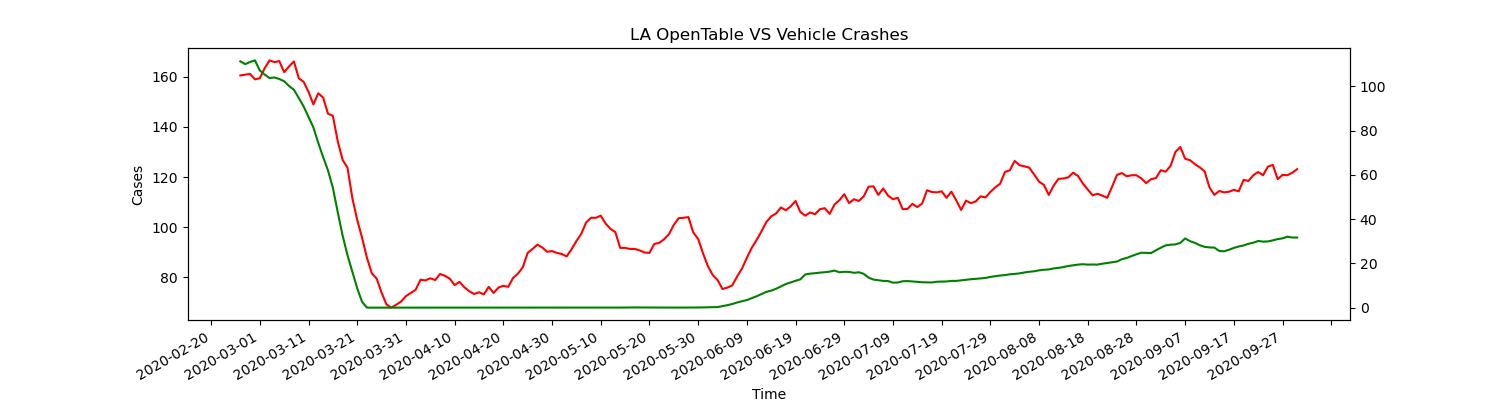
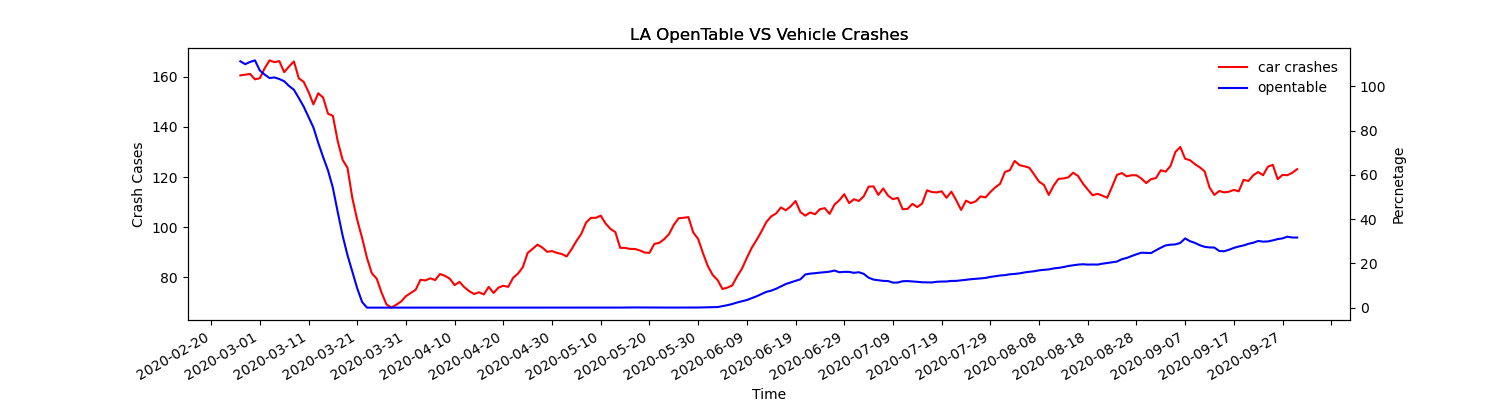
fig update

diff --git a/preprocess.py b/preprocess.py
@@ -14,7 +14,9 @@ sourcepath = "source"
 def main():
     #date_day = pd.date_range(start='1/1/2020', end='9/30/2020')
 
-    
+    car()
+   
+
     carFile = '_Car_TS.csv'
     try:
         NYC_Car_TS = pd.read_csv('NYC'+carFile,names=['date','cases'])
@@ -34,7 +36,6 @@ def main():
         print('FileNotExistError')
     
     # print(FL_Car_TS)
-
     caseFile = '_Case_TS.csv'
     try:
         NYC_Case_TS = pd.read_csv('NYC'+caseFile,names=['date','cases'])
@@ -53,7 +54,7 @@ def main():
     except :
         getCaseTSFile('FL','FL'+caseFile,'United_States_COVID-19_Cases_and_Deaths_by_State_over_Time.csv')
         FL_Case_TS = pd.read_csv('FL'+caseFile,names=['date','cases'])
-
+    
     otFile = "_Opentable_TS.csv"
     
     try:
@@ -79,30 +80,37 @@ def main():
     # plot_df(NYC_Car_TS, x=NYC_Car_TS['date'], y=NYC_Car_TS['cases'].rolling(7).mean(), title='NYC_Car')
     # plot_df(LA_Car_TS, x=LA_Car_TS['date'], y=LA_Car_TS['cases'].rolling(7).mean(), title='LA_Car')
     # plot_df(Opentable_NYC_TS, x=Opentable_NYC_TS['date'], y=Opentable_NYC_TS['percnetage'].rolling(7).mean(), title='NYC_'+'Opentable_TS')
-    # plot_df(Opentable_LA_TS, x=Opentable_LA_TS['date'], y=Opentable_LA_TS['percnetage'].rolling(7).mean(), title='LA_'+'_OpentableTS')
+    # plot_df(Opentable_LA_TS, x=Opentable_LA_TS['date'], y=Opentable_LA_TS['percnetage'].rolling(7).mean(), title='LA_'+'_OpentableTS')    
     
-    plot_df_2var(NYC_Car_TS,NYC_Opentable_TS, x1=NYC_Car_TS['date'], y1=NYC_Car_TS['cases'].rolling(7).mean(),x2=NYC_Opentable_TS['date'], y2=NYC_Opentable_TS['percnetage'].rolling(7).mean(), title='NYC OpenTable VS Vehicle Crashes')
-    plot_df_2var(NYC_Car_TS,NYC_Opentable_TS, x1=NYC_Case_TS['date'], y1=NYC_Case_TS['cases'].rolling(7).mean(),x2=NYC_Opentable_TS['date'], y2=NYC_Opentable_TS['percnetage'].rolling(7).mean(), title='NYC OpenTable VS Cases')
+    plot_df_2var(x1=NYC_Car_TS['date'], y1=NYC_Car_TS['cases'].rolling(7).mean(),x2=NYC_Opentable_TS['date'], y2=NYC_Opentable_TS['percnetage'].rolling(7).mean(), title='NYC OpenTable VS Vehicle Crashes',y1label='Crash Cases',y2label='Percnetage',line1 = 'car crashes',line2 = 'opentable')
+    plot_df_2var(x1=NYC_Case_TS['date'], y1=NYC_Case_TS['cases'].rolling(7).mean(),x2=NYC_Opentable_TS['date'], y2=NYC_Opentable_TS['percnetage'].rolling(7).mean(), title='NYC OpenTable VS COVID Cases',y1label='Covid Cases',y2label='Percnetage',line1 = 'covid case',line2 = 'opentable')
+    plot_df_2var(x1=NYC_Case_TS['date'], y1=NYC_Case_TS['cases'].rolling(7).mean(),x2=NYC_Car_TS['date'], y2=NYC_Car_TS['cases'].rolling(7).mean(), title='NYC Car Crashes VS COIVD Cases',y1label='Covid Cases',y2label='Crash Cases',line1 = 'covid case',line2 = 'car crashes')
     
-    plot_df_2var(LA_Car_TS,LA_Opentable_TS, x1=LA_Car_TS['date'], y1=LA_Car_TS['cases'].rolling(7).mean(),x2=LA_Opentable_TS['date'], y2=LA_Opentable_TS['percnetage'].rolling(7).mean(), title='LA OpenTable VS Vehicle Crashes')
-    plot_df_2var(LA_Car_TS,LA_Opentable_TS, x1=LA_Case_TS['date'], y1=LA_Case_TS['cases'].rolling(7).mean(),x2=LA_Opentable_TS['date'], y2=LA_Opentable_TS['percnetage'].rolling(7).mean(), title='LA OpenTable VS COIVD Cases')
-        
-    plot_df_2var(FL_Car_TS,FL_Opentable_TS, x1=FL_Car_TS['date'], y1=FL_Car_TS['cases'].rolling(7).mean(),x2=FL_Opentable_TS['date'], y2=FL_Opentable_TS['percnetage'].rolling(7).mean(), title='FL OpenTable VS Vehicle Crashes')
-    
-    plot_df_2var(FL_Car_TS,FL_Opentable_TS, x1=FL_Case_TS['date'], y1=FL_Case_TS['cases'].rolling(7).mean(),x2=FL_Opentable_TS['date'], y2=FL_Opentable_TS['percnetage'].rolling(7).mean(), title='FL OpenTable VS COVID Cases')
+    plot_df_2var(x1=LA_Car_TS['date'], y1=LA_Car_TS['cases'].rolling(7).mean(),x2=LA_Opentable_TS['date'], y2=LA_Opentable_TS['percnetage'].rolling(7).mean(), title='LA OpenTable VS Vehicle Crashes',y1label='Crash Cases',y2label='Percnetage',line1 = 'car crashes',line2 = 'opentable')
+    plot_df_2var(x1=LA_Case_TS['date'], y1=LA_Case_TS['cases'].rolling(7).mean(),x2=LA_Opentable_TS['date'], y2=LA_Opentable_TS['percnetage'].rolling(7).mean(), title='LA OpenTable VS COVID Cases',y1label='Covid Cases',y2label='Percnetage',line1 = 'covid case',line2 = 'opentable')
+    plot_df_2var(x1=LA_Case_TS['date'], y1=LA_Case_TS['cases'].rolling(7).mean(),x2=LA_Car_TS['date'], y2=LA_Car_TS['cases'].rolling(7).mean(), title='LA Car Crashes VS COIVD Cases',y1label='Covid Cases',y2label='Crash Cases',line1 = 'covid case',line2 = 'car crashes')
+       
+    plot_df_2var(x1=FL_Car_TS['date'], y1=FL_Car_TS['cases'].rolling(7).mean(),x2=FL_Opentable_TS['date'], y2=FL_Opentable_TS['percnetage'].rolling(7).mean(), title='FL OpenTable VS Vehicle Crashes',y1label='Crash Cases',y2label='Percnetage',line1 = 'car crashes',line2 = 'opentable')
+    plot_df_2var(x1=FL_Case_TS['date'], y1=FL_Case_TS['cases'].rolling(7).mean(),x2=FL_Opentable_TS['date'], y2=FL_Opentable_TS['percnetage'].rolling(7).mean(), title='FL OpenTable VS COVID Cases',y1label='Covid Cases',y2label='Percnetage',line1 = 'covid case',line2 = 'opentable')
+    plot_df_2var(x1=FL_Case_TS['date'], y1=FL_Case_TS['cases'].rolling(7).mean(),x2=FL_Car_TS['date'], y2=FL_Car_TS['cases'].rolling(7).mean(), title='FL Car Crashes VS COVID Cases',y1label='Covid Cases',y2label='Crash Cases',line1 = 'covid case',line2 = 'car crashes')
     
 
-def plot_df_2var(df1,df2, x1, y1, x2, y2, title='', xlabel='Time', ylabel='Cases', dpi=100):
+def plot_df_2var(x1, y1, x2, y2, title='', xlabel='Time', y1label='Cases',y2label='Cases',line1 = 'line1',line2 = 'line2', dpi=100):
     plt.figure(figsize=(15,4), dpi=dpi)
     ax1= plt.gca()
     ax2= ax1.twinx()
-    ax1.plot(x1, y1, color='red') 
-    ax2.plot(x1, y2, color='green') 
+    l1, = ax1.plot(x1, y1, color='red') 
+    l2, = ax2.plot(x1, y2, color='blue') 
     
-    ax1.set(title=title, xlabel=xlabel, ylabel=ylabel)
+    ax1.set(title=title, xlabel=xlabel, ylabel=y1label)
+    ax2.set(title=title, xlabel=xlabel, ylabel=y2label)
     ax1.xaxis.set_major_locator(ticker.MultipleLocator(10))
     plt.gcf().autofmt_xdate() #
+    plt.legend([l1,l2],[line1,line2],loc='best',frameon=False)
+    
+    
     plt.savefig(title+'.png',format = 'png')
+    
     # plt.show()
 
 def plot_df(df, x, y, title='', xlabel='Time', ylabel='Cases', dpi=100):
